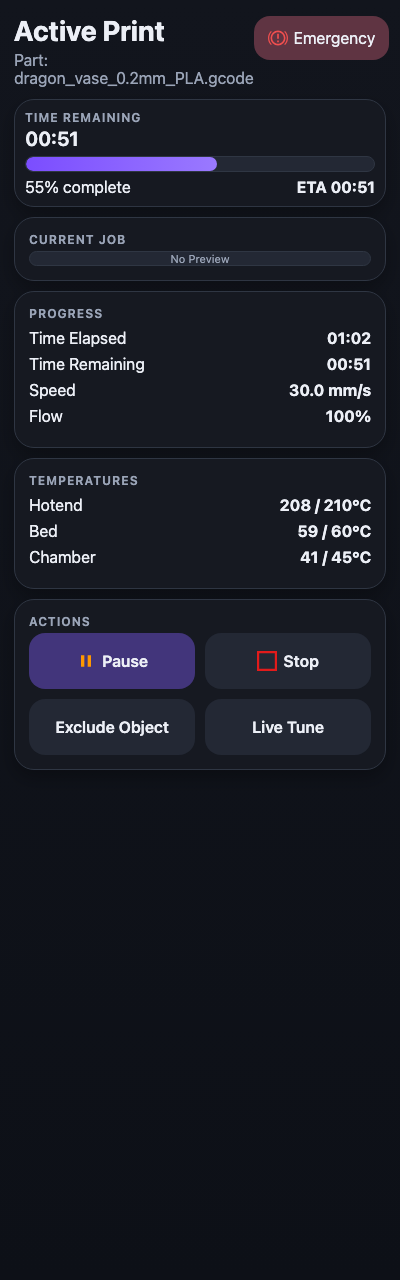
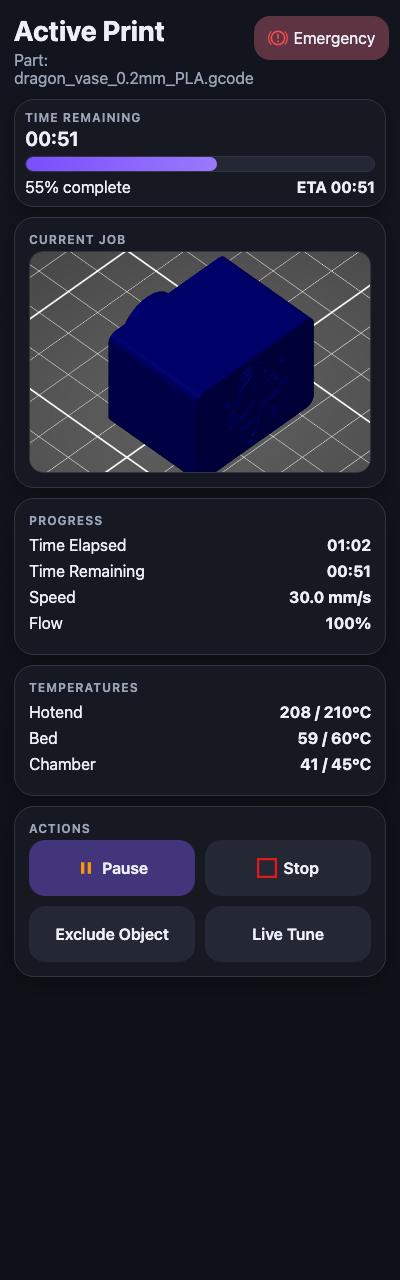
added images to screenshots

Changed region(s): [[0.03, 0.1875, 0.93, 0.75]]

diff --git a/README.md b/README.md
@@ -154,7 +154,7 @@ npm install
 npm run dev
 ```
 
-Regenerate all README screenshots using built-in sample printer data; no printer connection is needed. This requires Node.js 22+ and Chrome/Chromium (`CHROME_BIN` can select a non-default browser path):
+Regenerate all README screenshots using built-in sample printer data and the extracted [sample G-code thumbnail](assets/readme-print-thumbnail.png); no printer connection is needed. This requires Node.js 22+ and Chrome/Chromium (`CHROME_BIN` can select a non-default browser path):
 
 ```bash
 npm run screenshots
